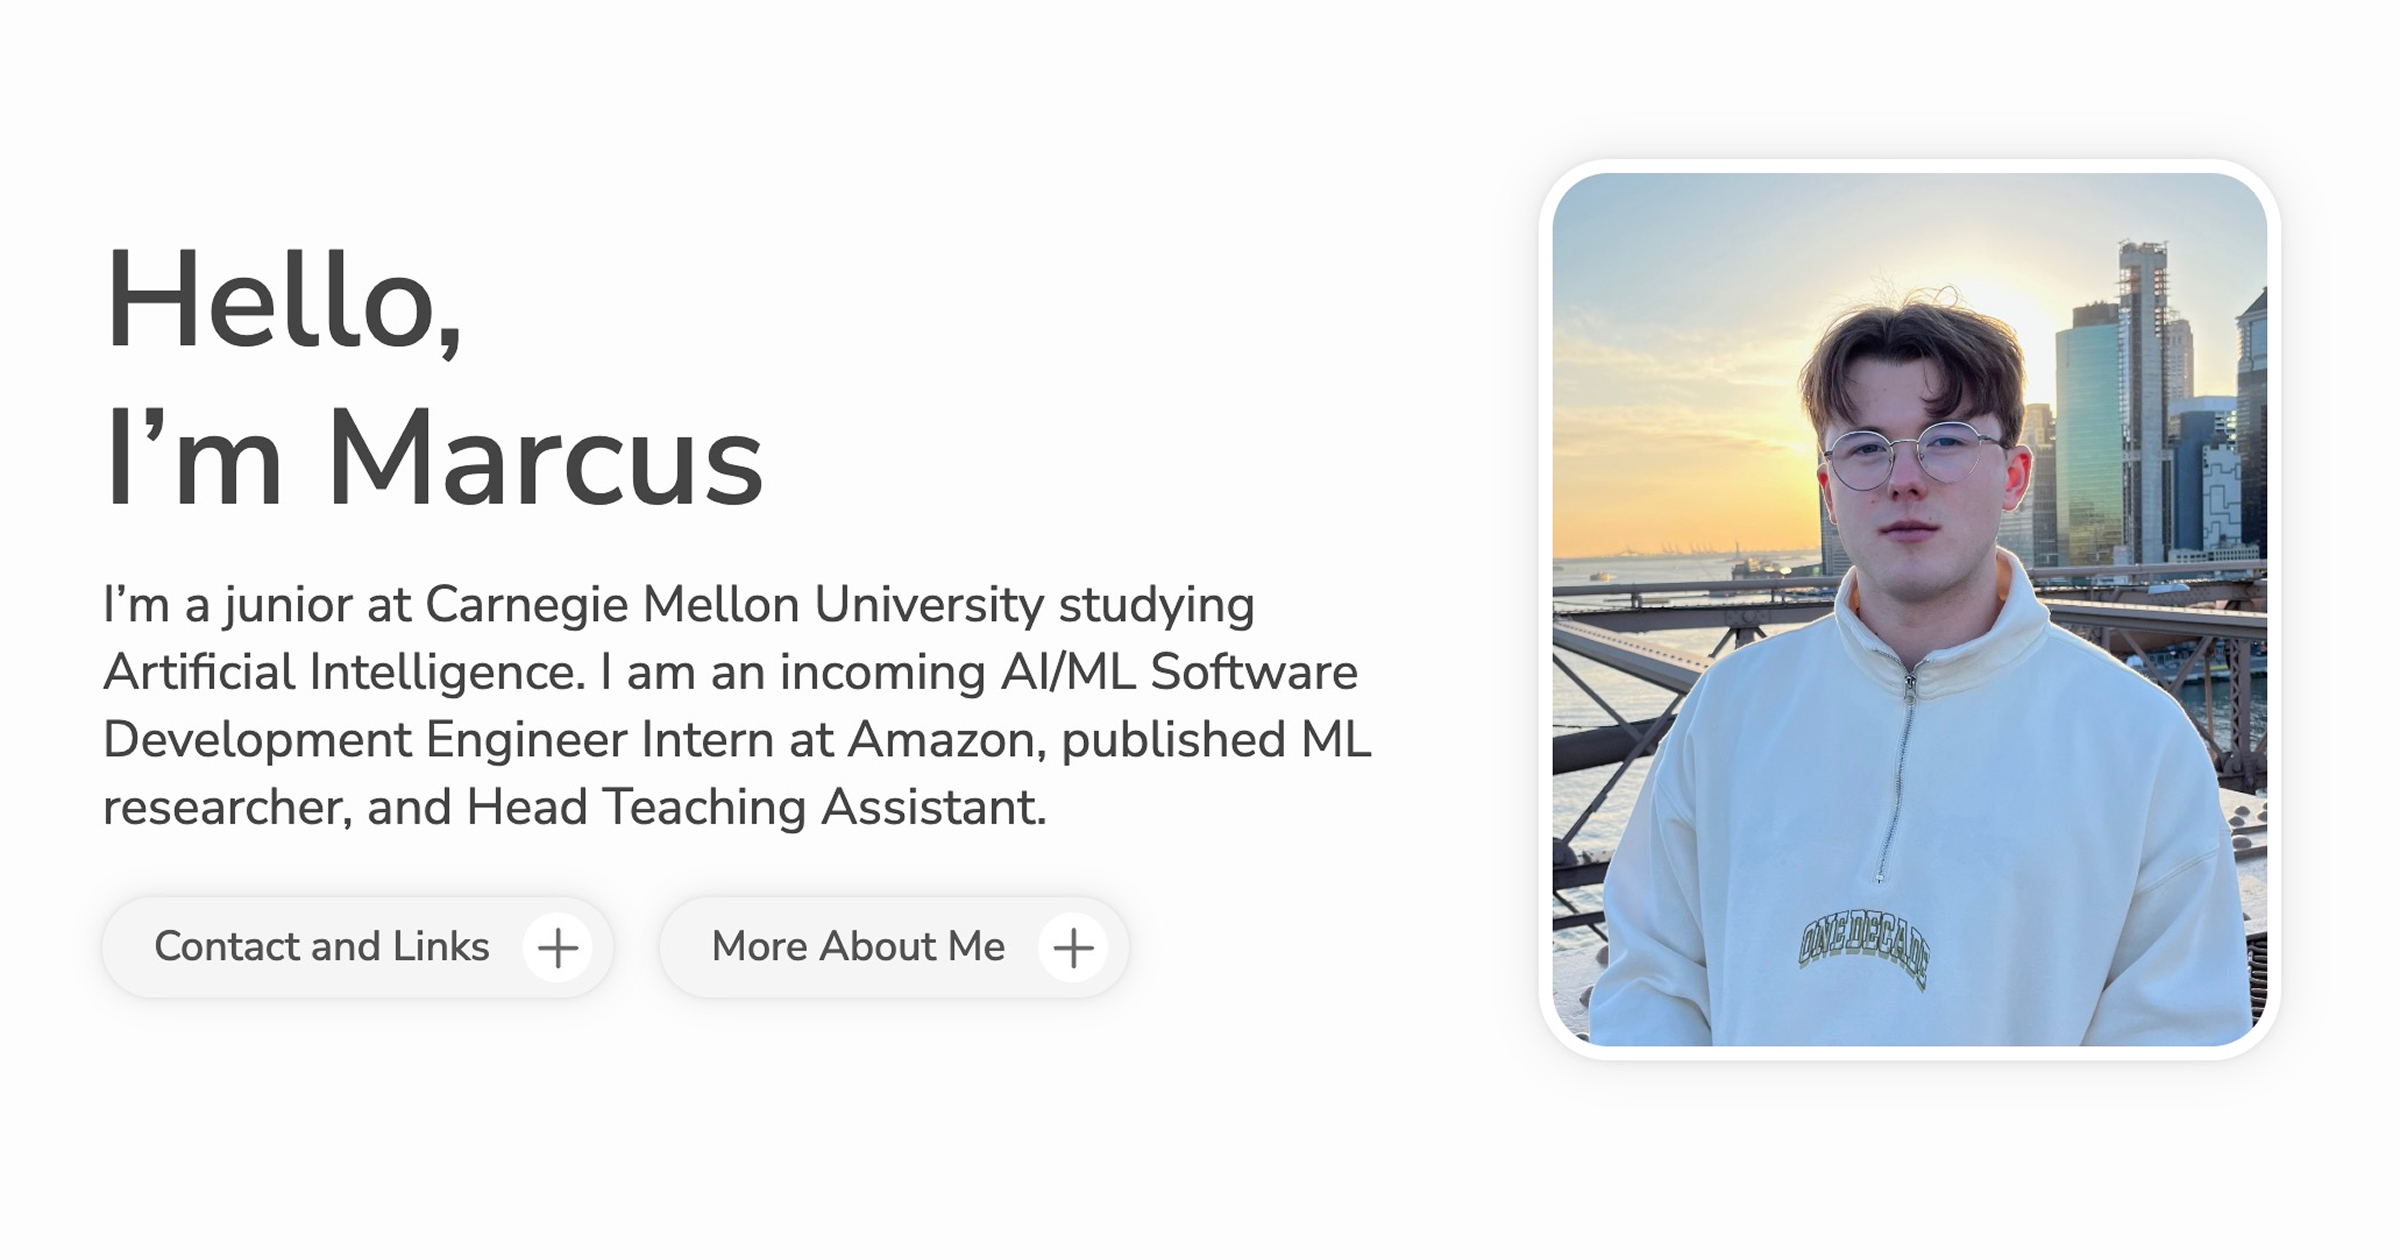
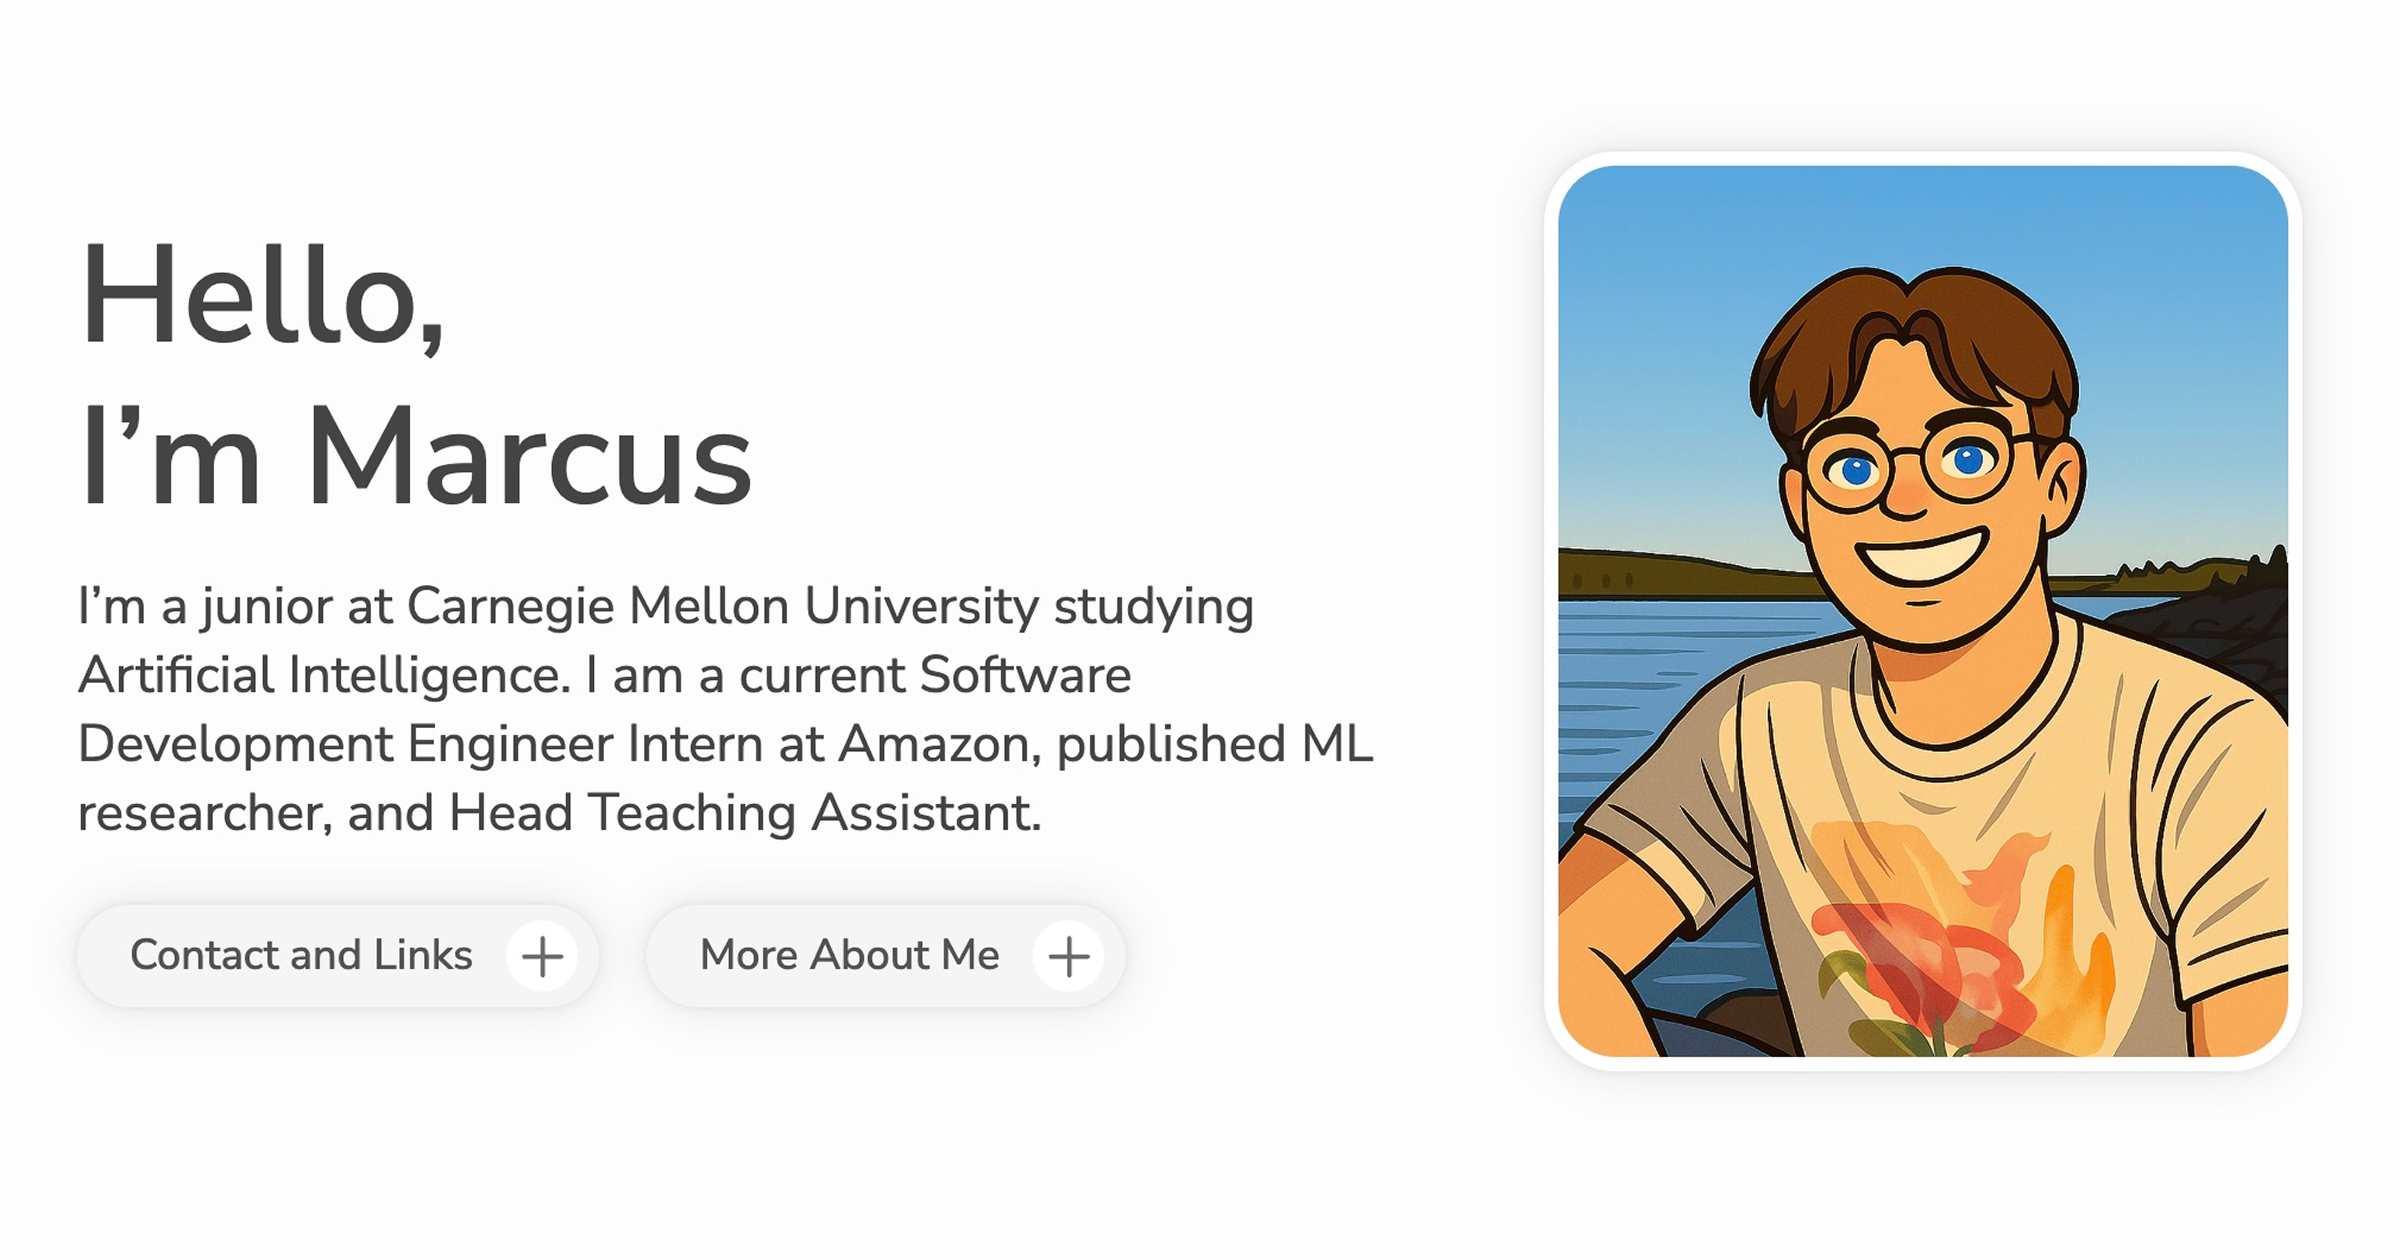
added new hero pic

diff --git a/app/components/Hero/HeroButton.css b/app/components/Hero/HeroButton.css
@@ -16,7 +16,7 @@
     cursor: pointer;
     user-select: none;
     position: relative;
-    background: var(--lightFooter);
+    background: var(--lightFooter) !important;
     box-shadow: 0px 0px 3px rgba(0, 0, 0, 0.08), 0px 0px 14px rgba(0, 0, 0, 0.1);
     transition: scale 200ms ease, box-shadow 200ms ease;
 }

diff --git a/app/components/Hero/Hero.css b/app/components/Hero/Hero.css
@@ -89,7 +89,7 @@
     }   
 
     #hero-image {
-        object-position: 50% 30%;
+        object-position: 50% 20%;
     }
 
     #hero h1 { margin-top: 50px; }
